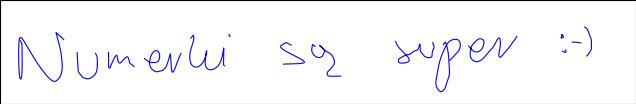
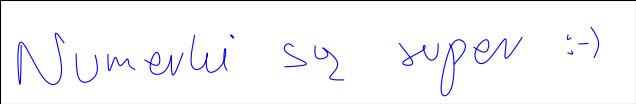
kolejna wersja podpisu

diff --git a/AN/Podpis/interpolacja.py b/AN/Podpis/interpolacja.py
@@ -1,136 +1,135 @@
 import matplotlib.pyplot as plt
+import numpy as np
 
-HEIGHT = 104
-WIDTH = 634
+HEIGHT = 246
+WIDTH = 1562
 
 
-Nx = [157, 136, 151, 108, 49, 46, 52]
-Ny = [101, 84, 170, 186, 98, 197, 103]
+Nx = [ 157, 136, 151, 108, 50, 48, 52]
+Ny = [ 101, 84, 170, 186, 100, 197, 108]
 
-Ux = [-240.1, -239.1, -234.7, -229.9, -226.1, -220.8, -220.1, -221.8]
-Uy = [-0.750, -19.58, -25.31, -26.79, -25.60, -19.50, -5.061, -1.290]
+Ux = [ 187, 198, 235, 234]
+Uy = [ 128, 191, 178, 131]
 
-Mx = [-208.8, -208.8, -207.4, -204.5, -201.0, -199.7, -196.9, -190.7, -187.8, -183.4]
-My = [-0.496, -15.30, -15.85, -9.031, -3.300, -7.344, -10.80, -4.850, -10.92, -14.58]
+Mx = [ 265, 269, 283, 294, 312, 317, 331]
+My = [ 129, 167, 136, 155, 140, 153, 164]
 
-ERx = [-173.0, -168.1, -162.1, -158.3, -158.6, -163.2, -167.2, -167.3, -162.5, -158.2, -151.0, -147.1, -145.6, -139.8, -136.6]
-ERy = [-6.500, -10.42, -10.50, -7.417, -0.500, 0.750, -6.000, -14.42, -19.33, -19.33, -13.75, -2.084, -19.50, -8.750, -1.250]
+ERx = [ 356, 390, 384, 370, 407, 421, 424, 449]
+ERy = [ 142, 152, 124, 166, 166, 132, 177, 126]
 
-KIx = [-126.8, -124.2, -124.1, -127.3, -126.8, -121.5, -116.3, -111.8, -111.2, -112.3, -105.9, -97.00, -93.98, -94.37, -93.25]
-KIy = [13.83, 16.83, 11.33, 0.500, -11.25, -15.08, -12.33, -4.333, 0.794, -12.5, -17.67, -9.333, 4.069, -12.80, -13.75]
+KIx = [ 478, 471, 500, 509, 511, 547, 553, 550, 557]
+KIy = [ 84, 155, 155, 126, 168, 150, 115, 144, 166]
 
-KROPKAx = [-88.58, -88.58, -87.58]
-KROPKAy = [17.67, 16.00, 15.50]
+KROPKAx = [ 566, 574, 569]
+KROPKAy = [ 84, 90, 83]
 
-Sx = [-26.79, -31.58, -35.67, -34.25, -15.00, -19.15, -34.44]
-Sy = [6.847, 9.583, 7.333, 2.083, -8.417, -11.61, -12.11]
+Sx = [ 720, 706, 699, 725, 752, 700]
+Sy = [ 110, 104, 118, 136, 152, 158]
 
-Yx = [-2.878, -5.458, -6.153, -6.252, -5.359, -2.779, 1.290, 4.664, 6.153, 6.649, 4.267, 1.588, 6.450, 9.626, 12.31, 14.59, 16.18, 16.18, 14.09, 11.02, 9.229, 10.12, 13.99, 22.92]
-Yy = [5.656, 7.542, 4.366, 1.489, -1.191, -4.168, -5.557, -3.573, -0.198, 1.687, 4.366, 6.450, 1.786, -9.924E-2, -1.786, -4.267, -8.137, -11.51, -15.18, -18.26, -20.74, -23.72, -24.21, -24.11]
+Ax = [ 774, 780, 805, 794, 829, 810, 844]
+Ay = [ 109, 138, 129, 114, 149, 183, 189]
 
-SUx = [77.40, 78.89, 81.18, 84.35, 87.63, 90.01, 90.90, 89.11, 85.54, 81.47, 80.28, 80.68, 83.76, 88.02, 91.10, 94.87, 97.65, 100.0, 101.6, 101.9, 102.8, 105.0, 106.7, 109.2, 111.0, 112.9, 113.7, 113.9, 115.2, 115.7, 115.3, 114.3]
-SUy = [10.42, 6.847, 3.771, 0.496, -2.779, -5.557, -8.336, -10.22, -11.02, -10.82, -9.328, -6.947, -4.962, -2.878, -2.481, 0.198, 1.489, 3.275, 7.840, 2.481, -0.298, -3.076, -4.664, -5.656, -5.756, -5.160, -3.275, 0.198, 2.779, 4.466, 6.550, 9.328]
+SUx = [ 981, 999, 1012, 990, 1038, 1040, 1052, 1072, 1076]
+SUy = [ 103, 125, 152, 147, 119, 110, 139, 134, 104]
 
-Px = [124.9, 126.8, 128.2, 129.6, 130.4, 130.7, 130.9, 128.6, 126.6, 123.7, 121.5, 118.9, 117.5, 118.3, 119.8, 121.9, 125.3, 129.4, 133.6, 138.8, 141.7, 141.2, 138.4, 135.2, 131.5]
-Py = [7.542, 9.924, 6.847, 0.397, -7.244, -13.40, -22.43, -29.97, -36.22, -39.30, -39.30, -36.22, -31.16, -24.81, -16.27, -7.443, 1.389, 8.931, 12.01, 12.50, 8.634, 3.176, -0.893, -4.366, -8.336]
+Px = [ 1104, 1114, 1109, 1085, 1092, 1118, 1143, 1116]
+Py = [ 104, 135, 207, 221, 156, 97, 110, 151]
 
-ER2x = [150.2, 152.9, 156.6, 160.1, 162.6, 164.3, 165.5, 163.4, 159.9, 156.8, 153.8, 152.3, 151.7, 152.9, 154.4, 157.8, 162.2, 166.1, 170.2, 174.8, 177.9, 180.8, 181.8, 180.3, 182.0, 186.6, 190.8, 193.9, 196.9, 198.2]
-ER2y = [5.855, 2.679, 0.198, 0.397, 2.282, 4.863, 10.22, 12.90, 12.90, 10.12, 6.947, 2.878, -3.176, -6.550, -8.336, -9.725, -8.336, -4.863, 0.000, 5.260, 11.11, 13.89, 7.145, -1.985, -5.061, 9.924E-2, 4.863, 9.527, 13.10, 15.88]
+ER2x = [ 1164, 1195, 1195, 1167, 1194, 1241, 1241, 1282]
+ER2y = [ 112, 121, 94, 126, 146, 92, 137, 89]
 
-OKO1x = [243.1, 242.3, 244.8, 243.6]
-OKO1y = [17.25, 13.83, 14.92, 17.42]
+OKO1x = [ 1395, 1394, 1402]
+OKO1y = [ 83, 93, 90]
 
-OKO2x = [243.6, 246.3, 247.4, 246.5]
-OKO2y = [0.833, -0.667, 0.583, 2.000]
+OKO2x = [ 1395, 1406, 1404]
+OKO2y = [ 125, 128, 121]
 
-NOSx = [253.4, 255.8, 257.9, 260.6, 262.1]
-NOSy = [9.917, 9.833, 9.750, 9.417, 9.000]
+NOSx = [ 1422, 1444]
+NOSy = [ 104, 103]
 
-USTAx = [265.8, 267.5, 269.4, 270.3, 271.8, 272.5, 272.6, 272.5, 271.2, 269.8, 267.9]
-USTAy = [25.00, 23.83, 20.83, 18.00, 14.33, 11.08, 6.333, 2.917, 0.417, -2.000, -4.000]
+USTAx = [ 1452, 1470, 1459]
+USTAy = [ 65, 101, 136]
 
-litery = [(Nx, Ny), (Ux, Uy), (Mx, My), (ERx, ERy), (KIx, KIy), (KROPKAx, KROPKAy), (Sx, Sy),
-          (Yx, Yy), (SUx, SUy), (Px, Py), (ER2x, ER2y), (OKO1x, OKO1y), (OKO2x, OKO2y), (NOSx, NOSy), (USTAx, USTAy)]
+litery = [[Nx, Ny], [Ux, Uy], [Mx, My], [ERx, ERy], [KIx, KIy], [KROPKAx, KROPKAy], [Sx, Sy],
+          [Ax, Ay], [SUx, SUy], [Px, Py], [ER2x, ER2y], [OKO1x, OKO1y], [OKO2x, OKO2y], [NOSx, NOSy], [USTAx, USTAy]]
 
 def interpolMatrix(values):
-  n = len(values) - 1
-  def points(x):
-    return x/n
-  
-  q = [0 for i in range(n)]
-  u = [0 for i in range(n)]
-  p = [0 for i in range(n)]
-  m = [0 for i in range(n+1)]
-  q[0] = 0
-  u[0] = 0
+  n = len(values) -1
+  points = [i/n for i in range(len(values))]
+
+
+  q = np.zeros(n)
+  u = np.zeros(n)
+  p = np.zeros(n)
+  m = np.zeros(n+1)
+
 
   def h(k):
-    return points(k) - points(k-1)
-  
+    return points[k] - points[k-1]
+
   def lam(k):
     return h(k)/(h(k)+h(k+1))
-  
-  def f(a,b):
+
+  def f(a, b):
     if a == b:
       return values[a]
-    return (f(a+1,b) - f(a,b-1))/(points(b)-points(a))
-  
-  def d(k):
-    return 6*f(k-1,k+1)
+    return (f(a+1, b) - f(a, b-1))/(points[b]-points[a])
 
-  for k in range(1,n-1):
-    p[k] = 2+(q[k-1]*lam(k))
+  def d(k):
+    return 6*f(k-1, k+1)
+
+  for k in range(1, n):
+    p[k] = 2 + (q[k-1]*lam(k))
     q[k] = (lam(k)-1)/p[k]
     u[k] = (d(k)-lam(k)*u[k-1])/p[k]
-  
-  m[n] = 0
 
-  for k in range(n-1,1,-1):
+  m[n-1] = u[n-1]
+
+  for k in range(n-2, 0, -1):
     m[k] = u[k] + q[k]*m[k+1]
-  
-  return m
 
+  return m
 
 def interpolValue(x, values, m):
   n = len(values) - 1
-
-  def points(x):
-    return x/n
+  points = [i/n for i in range(len(values))]
 
   def h(k):
-    return points(k) - points(k-1)
+    return points[k] - points[k-1]
 
-  i = n-1
-  while x - points(i) < 0:
-    i = i-1
+  for i in range(1, n+1):
+    if points[i-1] <= x and x < points[i]:
+      break
 
-  a = (m[i+1]-m[i])/(6*h(i))
-  b = m[i]/2
-  c = (((values[i+1] - values[i])/h(i)) - (h(i)*(m[i+1]+2*m[i])/6))
-  s = values[i] + (x-points(i))*(c+(x-points(i))*(b+(x-points(i))*a))
+  a = (m[i-1]*((points[i] - x)**3))/6
+  b = (m[i]*((x - points[i-1])**3))/6
+  c = (values[i-1] - (m[i-1]*(h(i)**2)/6))*(points[i] - x)
+  d = (values[i] - (m[i]*(h(i)**2)/6))*(x - points[i-1])
+  s = (a + b + c + d)/h(i)
   return s
-
 
 M = 1000
 fig, ax = plt.subplots(figsize=(6.36, 1.04))
 ax = fig.add_axes((0, 0, 1, 1))
-ax.set(ylim=(-HEIGHT/2,HEIGHT/2),       
-       xlim=(-WIDTH/2,WIDTH/2),
+ax.set(ylim=(0,HEIGHT),       
+       xlim=(0,WIDTH),
        yticks=[],
        xticks=[])
+ax.invert_yaxis()
        
 out = open("dane.txt", "wt")
 
 itr = 0
 for litera in litery:
-  literaX = [0 for i in range(M)]
-  literaY = [0 for i in range(M)]
+
+  literaX = []
+  literaY = []
   
   mx = interpolMatrix(litera[0])
   my = interpolMatrix(litera[1])
-  for i in range(M):
-    literaX[i] = interpolValue(i/M, litera[0], mx)
-    literaY[i] = interpolValue(i/M, litera[1], my)
+  for i in range(0, M+1):
+    literaX.append(interpolValue(i/M, litera[0], mx))
+    literaY.append(interpolValue(i/M, litera[1], my))
 
   ax.plot(literaX, literaY, color='blue', linewidth=0.8)
   out.write(f'''krzywa{itr}:\n
@@ -141,5 +140,5 @@ for litera in litery:
   itr +=1
 
 
-fig.savefig("output2.png")
+fig.savefig("output.png")
 
